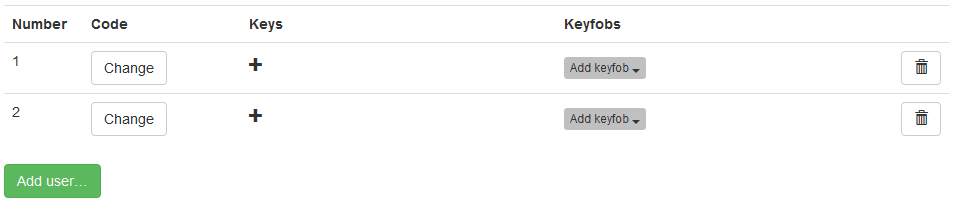
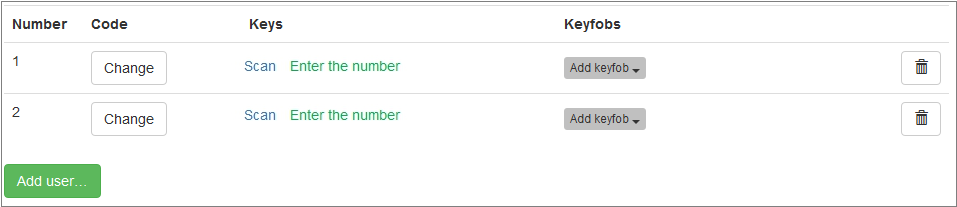
Редактирование текста и ихобржений

diff --git a/rus/nord/06-03-config-zones.md b/rus/nord/06-03-config-zones.md
@@ -21,7 +21,7 @@
 Если к прибору подключен расширитель «РПШ-12», то дополнительные шлейфы появятся в конфигураторе автоматически.
 Особенности работы и схема подключения расширителя к прибору приведены в разделе [«Подключение расширителя РПШ-12»](#install-wze-12).
 
-> «РПШ-12» нельзя подключать совместно с «РПШ-8».
+«РПШ-12» нельзя подключать совместно с «РПШ-8».
 
 ### Нумерация шлейфов
 
@@ -36,7 +36,7 @@
 
 Кнопка включения / выключения шлейфа находится в левой колонке, сразу за номером шлейфа. Цвет кнопки отражает текущее состояние шлейфа: если кнопка зеленая, то шлейф включен, если кнопка красная, то выключен. Надпись на кнопке соответствует операции, которая будет выполнена при нажатии на кнопку: на зеленой кнопке написано «Выключить», потому что при нажатии на кнопку шлейф будет выключен, а на красной кнопке написано «Включить», так как при нажатии на красную кнопку шлейф будет включен.
 
-Для того, чтобы прибор начал контролировать состояние шлейфа, а также для того, чтобы можно было выполнить настройку шлейфа, его необходимо включить. Если в приборе есть хотя бы один *включенный* шлейф, имеющий тип «Охранный», то такой шлейф должен быть добавлен к разделу.
+Для того, чтобы прибор начал контролировать состояние шлейфа, а также для того, чтобы можно было выполнить настройку шлейфа, его необходимо включить. Если в приборе есть хотя бы один *включенный* шлейф, имеющий тип «Охранный», «Охранный без сирены» или «Проходной», то такой шлейф должен быть добавлен к разделу.
 
 Если проводной шлейф *выключен*, то его состояние, а также изменения состояния игнорируются прибором. Кроме того, если шлейф выключен, то его нельзя добавить в раздел: в списке доступных для добавления в раздел шлейфов он не отображается.
 
@@ -92,8 +92,8 @@
 \end{tabularx}
 \captionof*{table}{Типы проводных шлейфов}
 
-> Если для типа шлейфа указано «Да» в колонке «Взятие / снятие», то это означает, что шлейф такого типа может быть взят под охрану или снят с охраны вместе с любым из разделов, в который он включен. Если же для типа шлейфа указано «Нет» в колонке «Взятие / снятие», то это означает, что шлейф такого типа взят под охрану *всегда*.
-> Если для типа шлейфа указано «Да» в колонке «Сирена», то это означает, что при тревоге в шлейфе такого типа будет включена сирена.
+Если для типа шлейфа указано «Да» в колонке «Взятие / снятие», то это означает, что шлейф такого типа может быть взят под охрану или снят с охраны вместе с любым из разделов, в который он включен. Если же для типа шлейфа указано «Нет» в колонке «Взятие / снятие», то это означает, что шлейф такого типа взят под охрану *всегда*.   
+Если для типа шлейфа указано «Да» в колонке «Сирена», то это означает, что при тревоге в шлейфе такого типа будет включена сирена.
 
 **Тип шлейфа «Проходной»**
 
@@ -112,7 +112,6 @@
 Если для шлейфа указан тип «КТС без фиксации», то такой шлейф имеет собственный интервал повтора тревог. 
 
 Для данного типа шлейфа интервал повтора тревог, заданный для прибора, не используется. Вместо него выставляется значение, равное 5 секундам. Таким образом, повторное нажатие на тревожную кнопку не раннее, чем через 5 секунд, приведет к передаче еще одного события на пульт.
-
 
 **Тип шлейфа «Датчик температуры»**
 
@@ -149,11 +148,11 @@
 
 Значение параметра «Задержка на вход» можно указать только для шлейфов, тип которых задан, как «Охранный» или «Охранный без сирены». Связано это с тем, что шлейфы всех остальных типов (за исключением «Проходного») не могут быть взяты или сняты с охраны: они находятся под охраной всегда. Что же касается типа шлейфа «Проходной», то шлейфы этого типа обрабатываются при взятии или снятии специальным образом, так, как описано выше, в разделе «Типы шлейфов».
 
-**Событие «Возможная тревога»**
+**Событие «Вероятная тревога»**
 
-При нарушении шлейфа с задержкой на вход прибор безусловно формирует событие «Возможная тревога» (**E138**). В качестве аргументов события передаются номер нарушенного шлейфа и наименьший номер раздела, в который этот шлейф включен. Если будут нарушены несколько шлейфов с задержкой на вход, то для каждого шлейфа будет сформировано событие «Возможная тревога».
+При нарушении шлейфа с задержкой на вход прибор безусловно формирует событие «Вероятная тревога» (**E138**). В качестве аргументов события передаются номер нарушенного шлейфа и наименьший номер раздела, в который этот шлейф включен. Если будут нарушены несколько шлейфов с задержкой на вход, то для каждого шлейфа будет сформировано событие «Вероятная тревога».
 
-На некоторых объектах контрольную панель нельзя разместить так, чтобы она находилась в отдельно охраняемой части помещения. Как правило, к таким объектам можно отнести небольшие помещения: торговые павильоны, гаражи, маленькие офисы и квартиры. Это означает, что во время отсчета задержки на вход контрольная панель может быть выведена из строя. Событие «Возможная тревога» позволяет пульту охраны контролировать работоспособность прибора после того, как начнется отсчет задержки на вход: если после начала задержки на вход не будет получено события о снятии прибора с охраны, то это повод выяснить, что происходит на объекте.
+На некоторых объектах контрольную панель нельзя разместить так, чтобы она находилась в отдельно охраняемой части помещения. Как правило, к таким объектам можно отнести небольшие помещения: торговые павильоны, гаражи, маленькие офисы и квартиры. Это означает, что во время отсчета задержки на вход контрольная панель может быть выведена из строя. Событие «Вероятная тревога» позволяет пульту охраны контролировать работоспособность прибора после того, как начнется отсчет задержки на вход: если после начала задержки на вход не будет получено события о снятии прибора с охраны, то это повод выяснить, что происходит на объекте.
 
 Для автоматического контроля получения снятия после возможной тревоги в «Центре охраны», необходимо воспользоваться обработчиком событий «Вход через тревогу» или обработчиком событий «Контроль цепочки событий». 
 

diff --git a/rus/nord/06-07-02-config-misc-interval.md b/rus/nord/06-07-02-config-misc-interval.md
@@ -28,6 +28,7 @@
 
 Параметр «Интервал повтора тревог» не распространяет на тревоги, которые формируются при срабатывании тампера прибора. События о нарушении или восстановлении тампера всегда формируются по факту изменения состояния тампера.
 
+
 **Интервал повтора пожарных тревог**
 
 Параметр «Интервал повтора пожарных тревог» задает интервал, с которым прибор будет формировать *одинаковые* тревоги по шлейфам, имеющим тип «Пожарный», и передавать их на пульт охраны. *Одинаковыми* считаются тревоги, которые возникли в одном и том же проводном шлейфе или были переданы одним и тем же беспроводным извещателем.
@@ -39,6 +40,7 @@
 * при обнаружении пожарной тревоги в шлейфе будет сформировано событие «Пожар», прибор перейдет в состояние «Пожар» и начнется отсчет заданного интервала;
 * по завершению отсчета заданного интервала событие «Пожар» будет сформировано повторно по всем шлейфам, по которым оно было сформировано во время отсчета интервала. После этого отсчет интервала начнется вновь;
 * при сбросе обобщенного состояния «Пожар» отсчет интервала будет завершен.
+  
 
 **Интервал повтора неисправностей**
 
@@ -67,6 +69,7 @@
 * разряд резервной батареи, подключенной к прибору. Событие о разряде резервной батареи (код **E302**) формируется однократно и повторяется только при включении прибора;
 * неисправность резервной батареи, подключенной к прибору. Событие о неисправности резервной батареи (код **E309**) формируется каждые 12 часов, по результатам каждой проверки качества резервной батареи;
 
+
 **Интервал перехода на основной канал**
 
 С помощью параметра «Интервал перехода на основной канал» можно задать интервал, через который прибор выполнит попытку инициализировать подключение к пульту по IP-каналу, который является основным. Какой канал связи является основным, зависит от того, подключен ли к прибору «Адаптер Ethernet»:
@@ -78,10 +81,12 @@
 
 Необходимо отметить, что в качестве значения для параметра «Интервал перехода на основной канал» можно указать значение «Не переходить». В этом случае принудительный переход на основной канал связи будет отключен. Такая возможность позволяет использовать «равнозначные» SIM – если прибор подключился по GPRS на SIM2, то он будет оставаться на этом канале до тех пор, пока канал будет работать.
 
+
 **Интервал передачи тестов** 
 
 С помощью параметра «Интервал передачи тестов» можно задать интервал, с которым прибор будет генерировать тестовое событие и отправлять его по доступному в данный момент каналу связи. Важно понимать, что этот интервал всегда отсчитывается от последнего события, которое было передано прибором. В случае, если по истечению интервала не будет событий на передачу, будет сформировано и передано тестовое событие.
 Если для этого параметра указано значение «Не передавать», то прибор не будет формировать тестовые события ( код **E602**). 
+
 
 **Интервал контроля передачи событий**
 
@@ -96,6 +101,7 @@
 * После перезагрузки будет сформировано два события. Код первого события – **R305**, это событие регистрирует сам факт перезагрузки прибора. Код второго события – **R754**, это событие означает, что перезагрузка произошла по команде системы аудита.
 
 Значение по-умолчанию для этого параметра составляет 7 минут. При необходимости, это значение можно увеличить. Если же для этого параметра указать значение «Не контролировать», то система аудита будет отключена. 
+
 
 **Интервалы контроля связи с беспроводными устройствами**
 

diff --git a/rus/nord/06-02-config-toolbar.md b/rus/nord/06-02-config-toolbar.md
@@ -13,8 +13,7 @@
 * версия программного обеспечения беспроводного расширителя, если он подключен; 
 * номер объекта, указанный в настройках прибора;
 * серийный номер прибора.
-
-> Серийный номер прибора присваивается ему при производстве и является уникальным для всей популяции приборов, выпускаемых компанией «Си-Норд».
+Серийный номер прибора присваивается ему при производстве и является уникальным для всей популяции приборов, выпускаемых компанией «Си-Норд».
 
 Кнопка «Считать» предназначена для того, чтобы загрузить в интерфейс конфигуратора те настройки, которые в данный момент сохранены в приборе. Необходимо помнить, что если произвести какие-то изменения в настройках прибора в конфигураторе, а потом нажать на кнопку «Считать», то все изменения будут потеряны: настройки, которые были сделаны в конфигураторе, будут заменены на настройки, загруженные с прибора.
 
@@ -52,14 +51,15 @@
 
 Параметры, которые определяют передачу событий по радиоканалу, указываются на вкладке «Радио».
 
-Вкладка «Облако» предназначена для того, чтобы указать, к какому «Облаку» прибор должен подключаться для того, чтобы у инженера была возможность удаленного доступа к нему. Значения параметров на этой вкладке необходимо изменять только в том случае, если используется «Частное облако», либо параметры для подключения к «Облаку» по каким-то причинам необходимо указать вручную.
+Вкладка «Облако» предназначена для указания к какому «Облаку» прибор должен подключаться для того, чтобы у инженера была возможность удаленного доступа к нему. Значения параметров на этой вкладке необходимо изменять только в том случае, если используется «Частное облако», либо параметры для подключения к «Облаку» необходимо указать вручную.
 
-Вкладка «Ethernet» предназначена для того, чтобы изменить настройки подключения прибора к локальной сети. Эта вкладка отображается в конфигураторе только в том случае, если к прибору подключен опциональный модуль «Адаптер Ethernet».
+На вкладке «Ethernet» можно изменить настройки подключения прибора к локальной сети. Эта вкладка отображается в конфигураторе только если к прибору подключен опциональный модуль «Адаптер Ethernet».
 
-Параметры операторов сотовой связи, такие, как адрес точки доступа (APN), имя пользователя и пароль для доступа к услугам пакетной передачи данных, можно изменить на вкладке «Операторы GSM».
+Параметры операторов сотовой связи, такие как адрес точки доступа (APN), имя пользователя и пароль для доступа к услугам пакетной передачи данных, можно изменить на вкладке «Операторы GSM».
 
 Вкладка «Автоматика» предназначена для программирования поведения прибора в зависимости от тех или иных условий. В качестве условий могут выступать любые события, сформированные прибором или время. А в качестве действий, которые прибор может выполнить, выступают взятия или снятия, а также действия с открытыми коллекторами.
 
 События, которые хранятся в энергонезависимой памяти прибора, можно просмотреть на вкладке «История событий». Здесь же можно пометить, как отправленные, те события, которые ожидают доставки в «Центр охраны» в очереди на передачу.
 
-\par
+Вкладка «Панель состояния» в реальном времени отображает состояние каналов связи, проводных и беспроводных шлейфов.
+

diff --git a/rus/common/05-02-firmware-driver.md b/rus/common/05-02-firmware-driver.md
@@ -11,7 +11,7 @@
 ## Установка драйвера в Windows XP и Windows 7
 
 При первом подключении прибора к компьютеру в системной области панели задач появится уведомление о том, что найдено новое оборудование.
-Установку драйвера можно оуществить через Диспетчер устройств. Для этого нужно войти в меню «Пуск», щелкнуть правой кнопкой мыши на пункт «Компьютер» и выбрать Управление.
+Установку драйвера можно оуществить через Диспетчер устройств. Для этого нужно войти в меню «Пуск», щелкнуть правой кнопкой мыши на пункт «Компьютер» и выбрать Управление, затем в меню слева выбрать «Диспетчер устройств».
 
 \imgcapt{img/05-02-driver-02.png}{}
 
@@ -33,7 +33,7 @@
 
 \imgcapt{img/05-02-driver-07.png}{Подтверждение установки драйвера без цифровой подписи}
 
-После завершения установки драйвера необходимо нажать на кнопку «Готово».
+После завершения установки драйвера необходимо нажать на кнопку «Закрыть».
 
 \imgcapt{img/05-02-driver-08.png}{Завершение установки драйвера}
 
@@ -50,27 +50,27 @@
 
 Нажать комбинацию клавиш **Win+I**, после чего, удерживая кнопку **Shift** выбрать пункт «**Выключение**» – «**Перезагрузка**»:
 
-\imgcapt{img/05-02-driver-08.png}{Перезагрузка для изменения параметров загрузки}
+\imgcapt{img/05-02-driver-10.png}{Перезагрузка для изменения параметров загрузки}
 
 После того как операционная система перезагрузится, появится окно параметров запуска. Необходимо выбрать пункт «**Диагностика**»:
 
-\imgcapt{img/05-02-driver-09.png}{Вход в режим диагностики}
+\imgcapt{img/05-02-driver-11.png}{Вход в режим диагностики}
 
 В окне «**Диагностика**» необходимо выбрать пункт «**Дополнительные параметры**»:
 
-\imgcapt{img/05-02-driver-10.png}{Дополнительные параметры диагностики}
+\imgcapt{img/05-02-driver-12.png}{Дополнительные параметры диагностики}
 
 В окне «**Дополнительные параметры**» нужно выбрать пункт «**Параметры загрузки**»:
 
-\imgcapt{img/05-02-driver-11.png}{Параметры загрузки операционной системы}
+\imgcapt{img/05-02-driver-13.png}{Параметры загрузки операционной системы}
 
 В окне «**Параметры загрузки**» нужно щелкнуть левой кнопкой мыши по кнопке «**Перезагрузить**»:
 
-\imgcapt{img/05-02-driver-12.png}{Перезагрузка}
+\imgcapt{img/05-02-driver-14.png}{Перезагрузка}
 
 Операционная система перезагрузится еще раз, после чего появится окно «**Параметры загрузки**». В этом окне необходимо нажать на кнопку F7, чтобы продолжить загрузку операционной системы с отключенной проверкой подписи драйверов:
 
-\imgcapt{img/05-02-driver-13.png}{Отключение обязательно проверки подписи драйверов}
+\imgcapt{img/05-02-driver-15.png}{Отключение обязательно проверки подписи драйверов}
 
 После того как операционная система загрузится, нужно установить драйвер прибора так же, как и в операционных системах Windows XP / Windows 7. После установки драйвера необходимо еще раз перезагрузить компьютер, для того чтобы включить проверку подписи драйверов.
 

diff --git a/rus/nord/06-04-config-wireless.md b/rus/nord/06-04-config-wireless.md
@@ -8,6 +8,7 @@
 ### Подключение устройства к прибору
 
 \imgcapt{img/06-04-config-nord-02.png}{Добавление устройства, Вкладка «Беспроводные устройства»}
+   
 
 **Большинство устройств**
  
@@ -20,6 +21,7 @@
 
 Вспышками зеленого светодиода устройств подтвердит переход в режим связывания.
 Включение красного индикатора на 2 секунды оповещает об успешном завершении подключения устройства к прибору.
+   
 
 **СН-Сирена**
 
@@ -30,6 +32,7 @@
 * Переключить беспроводное устройство в режим связывания путем замыкания «минусового» контакта держателя батареи и контакта "4" на основании оповещателя.
 
 Включение красного индикатора на 2 секунды оповещает об успешном связывании.
+   
 
 **СН-Брелок**
 
@@ -41,19 +44,20 @@
 
 > Если брелок будет служить в качестве КТС, то после связывания необходимо установить галочку «КТС включена».
 
-###Ретранслятор
+
+### Ретранслятор
 
 «СН-Ретр» и «СН-Ретр 220» – это ретрансляторы, предназначенные для увеличения дальности работы беспроводных устройств.
 
 После того, как хотя бы один ретранслятор будет подключен к прибору, на вкладке «Беспроводные устройства» в столбце «Через ретранслятор» для каждого устройства появится возможность выбрать, как оно должно передавать сигналы в прибор: напрямую или через указанный ретранслятор.
 
-\imgcapt{img/06-04-config-nord-01.png}{Вкладка «Беспроводные устройства»}
+\imgcapt{img/06-04-config-nord-01.png}{Беспроводные устройства настроены на работу через ретранслятор}
 
 > Обратите внимание, что подключение любого устройства (связывание) всегда выполняется непосредственно к прибору. После того, как подключение будет выполнено, можно переключить устройство на передачу сигналов через ретранслятор.
 
 Цепочку ретрансляторов построить нельзя: между прибором и беспроводным устройством может быть только один ретранслятор.
 
-Алгоритм работы беспроводных устройств реализован таким образом, что если ретранслятор выйдет из строя, а прибор будет «слышать» датчик без ретранслятора, то прием сигналов от таких датчиков будет осуществляться без ретранслятора. Такая ситуация, конечно, маловероятна на реальном объекте, но упомянуть о ней нужно, чтобы избежать недопонимания при экспериментах «на столе».
+Алгоритм работы беспроводных устройств реализован таким образом, что если ретранслятор выйдет из строя, а прибор будет «слышать» устройство без ретранслятора, то прием сигналов от таких устройств будет осуществляться без ретранслятора.
 
 
 ### Рекомендации по монтажу

diff --git a/rus/nord/06-05-config-users.md b/rus/nord/06-05-config-users.md
@@ -6,17 +6,25 @@
 
 \imgcapt{img/06-05-config-nord-01.png}{Вкладка «Пользователи»}
 
+
 Для создания нового пользователя нужно нажать кнопку _Добавить пользователя_ и в открывшемся окне ввести код, который созданный пользователь будет использовать при взятии объекта под охрану и снятии с неё.
 
 \imgcapt{img/06-05-config-nord-02.png}{Вкладка «Пользователи», диалог ввода кода}
 
-Для добавления Touch Memory ключа нужно напротив выбранного пользователя нажать кнопку **+** в колонке «Ключи», после этого приложить ТМ-ключ к считывателю. Если считыватель подключен верно, то при добавлении вместо **+** отобразится код ключа. Далее следует перейти на вкладку [Разделы](#06-06-config-parts) и добавить ключ в раздел, которым он будет управлять. Одному пользователю можно добавить несколько ТМ-ключей, но с помощью одного ТМ-ключа можно управлять состоянием только одного раздела.
+
+Для добавления Touch Memory ключа нужно напротив выбранного пользователя нажать кнопку **Считать** в колонке «Ключи», после этого приложить ТМ-ключ к считывателю. Если считыватель подключен верно, то при добавлении вместо отобразится код ключа. 
+Добавить ТМ-ключ пользователю можно вручную. Для этого нужно нажать кнопку **Ввести номер** и в открывшемся окне ввести информацию с ключа.
+
+Далее следует перейти на вкладку [Разделы](#06-06-config-parts) и добавить ключ в раздел, которым он будет управлять. Одному пользователю можно добавить несколько ТМ-ключей, но с помощью одного ТМ-ключа можно управлять состоянием только одного раздела.
 
 \imgcapt{img/06-05-config-nord-03.png}{Вкладка «Пользователи», добавление TM-ключа}
+\imgcapt{img/06-05-config-nord-05.png}{Вкладка «Пользователи», добавление номера TM-ключа вручную}
+
 
 Если к прибору привязан беспроводной брелок, его можно добавить конкретному пользователю с помощью кнопки _Добавить брелок_. Подключать беспроводной брелок к прибору нужно на вкладке «[Беспроводные устройства](#06-04-config-wireless)». После того, как брелок добавлен, можно перейти на вкладку «[Разделы](#06-06-config-parts)» и сопоставить брелок разделу, которым он будет управлять. 
 
 \imgcapt{img/06-05-config-nord-04.png}{Вкладка «Пользователи», добавление брелока}
+
 
 С помощью значка корзины можно удалять ранее созданных пользователей.
 

diff --git a/rus/common/06-01-config-info.md b/rus/common/06-01-config-info.md
@@ -14,11 +14,9 @@
 
 > Конфигуратор «Хаббл» предназначен для изменения настроек следующих приборов: «Норд GSM», «Норд RF», «Норд LAN», «Союз GSM», «Союз PCB GSM», «ТР-100 GSM IV» и «Сержант GSM».   
 
-Для того, чтобы приступить к конфигурированию прибора, необходимо подключить его к компьютеру по USB и запустить конфигуратор.
-
-> Для того, чтобы конфигуратор было удобнее запускать, рекомендуется разместить ярлык для его запуска на рабочем столе или в папке часто используемых программ.
+Для того, чтобы приступить к конфигурированию прибора, необходимо подключить его к компьютеру по USB и запустить конфигуратор. Для того, чтобы конфигуратор было удобнее запускать, рекомендуется разместить ярлык для его запуска на рабочем столе или в папке часто используемых программ.
 
 После того, как конфигуратор будет запущен, он автоматически обнаружит подключенный к компьютеру прибор, выполнит проверку версии программного обеспечения, установленного на приборе, и загрузит настройки прибора.
 
-> Если версия программного обеспечения, установленного на приборе, не соответствует версии, необходимой для работы конфигуратора, будет выведено сообщение об ошибке с просьбой обновить программное обеспечение на приборе. В этом случае необходимо завершить работу конфигуратора и выполнить обновление программного обеспечения на приборе так, как это описано в разделе [«Обновление программного обеспечения»](#firmware-update).
+Если версия программного обеспечения, установленного на приборе, не соответствует версии, необходимой для работы конфигуратора, будет выведено сообщение об ошибке с просьбой обновить программное обеспечение на приборе. В этом случае необходимо завершить работу конфигуратора и выполнить обновление программного обеспечения на приборе так, как это описано в разделе [«Обновление программного обеспечения»](#firmware-update).
 

diff --git a/rus/nord/06-07-05-config-misc-arm-disarm.md b/rus/nord/06-07-05-config-misc-arm-disarm.md
@@ -7,18 +7,22 @@
 **Запретить взятие при тревоге в шлейфах с задержкой на выход**
 
 По умолчанию тревога в шлейфах с задержкой на выход игнорируется на момент взятия на охрану. Это сделано для того, чтобы пользователь мог поставить объект на охрану и спокойно закрыть за собой входную дверь. Но, если хочется быть уверенным, что все шлейфы сигнализации находятся в норме на момент взятия, можно включить контроль тревоги в шлейфах с задержкой на выход. Для этого нужно поставить «галочку» для параметра *Запретить взятие при тревоге в шлейфе с задержкой на выход*.
+   
 
 **Запретить взятие при отсутствии основного электропитания (220 В)**
 
 При установке этого параметра прибор будет невозможно поставить на охрану, если он работает на резервном питании, а основное отсутствует.
+   
 
 **Запретить взятие при отсутствии IP-связи с «Центром охраны»**
 
 При установке этого параметра прибор будет невозможно поставить на охрану, если связь по GPRS или Ethernet отсутствует.
+   
 
 **Разрешить удаленное взятие и снятие из «Центра охраны»**
 
 Включение этого параметра позволит удаленно управлять состоянием охраны из мобильного приложения и пульта охраны.
+   
 
 **Включить коды снятия под принуждением**
 
@@ -26,6 +30,7 @@
 
 * если код пользователя заканчивается на цифру «0», то код снятия под принуждением будет только один – на единицу больше. Например, если код пользователя равен «5840», то кодом снятия под принуждением будет только код «5841».
 * если код пользователя заканчивается на цифру «9», то код снятия под принуждением тоже будет только один – на единицу меньше. Например, если код пользователя равен «5849», то кодом снятия под принуждением будет только код «5848».
+    
 
 **Не индицировать задержку на вход на «СН-К»**
 

diff --git a/rus/nord/06-06-config-parts.md b/rus/nord/06-06-config-parts.md
@@ -14,7 +14,7 @@
 
 С помощью значка корзины можно удалять ранее созданные разделы.
 
-**Управление разделами**
+### Управление разделами
 
 Для того, чтобы пользователь мог использовать свой личный код при взятии раздела на охрану и снятии с неё, пользователя необходимо сопоставить этому разделу. Для этого надо нажать кнопку «Добавить код» и в выпадающем списке выбрать тех пользователей, которые смогут управлять конкретным разделом.
 
@@ -24,5 +24,5 @@
 
 * В случае если TM-ключ или брелок не добавлен ни к одному разделу, то он будет автоматически приписан к первому разделу.
 * Одним брелком нельзя управлять несколькими разделами, только одним. Такая же ситуация с TM-ключом: одному ключу может соответствовать только один раздел.
-* Один пользователь может быть закреплен за несколькими разделами. Тогда для взятия и снятия ему нужно будет указать номер раздела, который он собирается взять или снять с охраны. Подробнее в пункте [Взятие и снятие с выбором раздела](#control-select-part).
+* Один пользователь может быть закреплен за несколькими разделами. Тогда для взятия и снятия ему нужно будет указать номер раздела, который он собирается взять или снять с охраны.
 * Один и тот же шлейф может быть добавлен в несколько разделов, но при этом следует помнить, что шлейф находится под охраной, когда все разделы, в которые он входит, взяты под охрану.

diff --git a/rus/nord/06-07-08-config-misc-config-protection.md b/rus/nord/06-07-08-config-misc-config-protection.md
@@ -4,6 +4,7 @@
 
 \imgcapt{img/06-07-config-nord-07-01.png}{Вкладка «Разное», раздел «Защита конфигурации»}
 
+
 **Пароль для доступа к прибору**
 
 Обязательная аутентификация по паролю при подключении к прибору по USB - еще один способ обеспечения безопасности.   
@@ -12,6 +13,7 @@
 \imgcapt{img/06-07-config-nord-07-02.png}{Вкладка «Разное», раздел «Защита конфигурации», диалог для изменения пароля для доступа к прибору.}
 
 Если пароль утерян, а удаленное подключение к прибору невозможно, восстановить доступ к прибору можно только при сбросе значений всех его параметров в заводские. При этом будут удалены все настройки прибора, включая шлейфы, пользователей, разделы и прочее, а пароль для подключения к прибору по USB примет значение по умолчанию.
+   
 
 **Разрешить сброс значений параметров в заводские**  
 
@@ -24,6 +26,7 @@
 При нажатии на кнопку «Сбросить конфигурацию» прибор формирует событие с кодом **E752** и начинает отсчет заданной паузы.
 
 Рекомендуется устанавливать максимальные значения параметра *Пауза перед сбросом*, так как подобная задержка обеспечивает дополнительную защиту. В случае, если конфигурацию прибора сбрасывает злоумышленник, ЧОП успевает отреагировать на несанкционированный доступ к прибору.
+   
 
 **Включить функцию «Защита от угона»**
 

diff --git a/rus/nord/06-07-07-config-misc-control-indication.md b/rus/nord/06-07-07-config-misc-control-indication.md
@@ -1,18 +1,22 @@
 ### Управление и индикация {#control-indication}
 
 \imgcapt{img/06-07-config-nord-06-01.png}{Вкладка «Разное», раздел «Управление и индикация»}
+   
 
 **Настройка светового оповещателя выполняется на вкладке «Автоматика»**
 
 Для того, чтобы пользователь мог визуально контролировать состояние охранной сигнализации на объекте, к прибору можно подключить световой оповещатель с напряжением питания 12 В. Настройка этого оповещателя производится на вкладке [Автоматика](#config-automation).
+   
 
 **Подключена клавиатура «Риф-КТМ (Си-Норд)»**
 
 Если используется беспроводная клавиатура «Риф-КТМ (Си-Норд)», необходимо установить соответствующую галочку, чтобы индикация клавиатуры работала правильно.
+   
 
 **Коды пользователей длиной 6 цифр**
 
 Для использования шестизначных кодов для взятия и снятия с охраны, сначала нужно установить этот параметр, а после этого создать пользователей. Если в приборе уже есть пользователи с четырехзначным кодом, то сперва их нужно удалить, а потом установить параметр для использования шестизначных кодов.
+   
 
 **Разрешить использование клавиатуры в качестве тревожной кнопки**
 

diff --git a/rus/common/05-03-firmware-update.md b/rus/common/05-03-firmware-update.md
@@ -10,9 +10,10 @@
 
 В процессе обновления прибор может быть несколько раз перезапущен. После того как обновление прошивки на устройстве будет завершено, в окне утилиты появится сообщение об этом:
 
-\imgcapt{img/05-03-version-02.png}{Обновление версии программного обеспечения завершено}
+\imgcapt{img/05-03-version-02.png}{Процесс обновления версии программного обеспечения}
+\imgcapt{img/05-03-version-03.png}{Обновление версии программного обеспечения завершено}
 
 После этого утилиту для обновления прошивки по USB можно закрыть.
 
-> Если в процессе обновления появится сообщение об ошибке, рекомендуется отключить прибор от компьютера, завершить работу утилиты для обновления версии, после чего опять подключить прибор к компьютеру и запустить утилиту.
+Если в процессе обновления появится сообщение об ошибке, рекомендуется отключить прибор от компьютера, завершить работу утилиты для обновления версии, после чего опять подключить прибор к компьютеру и запустить утилиту.
 
